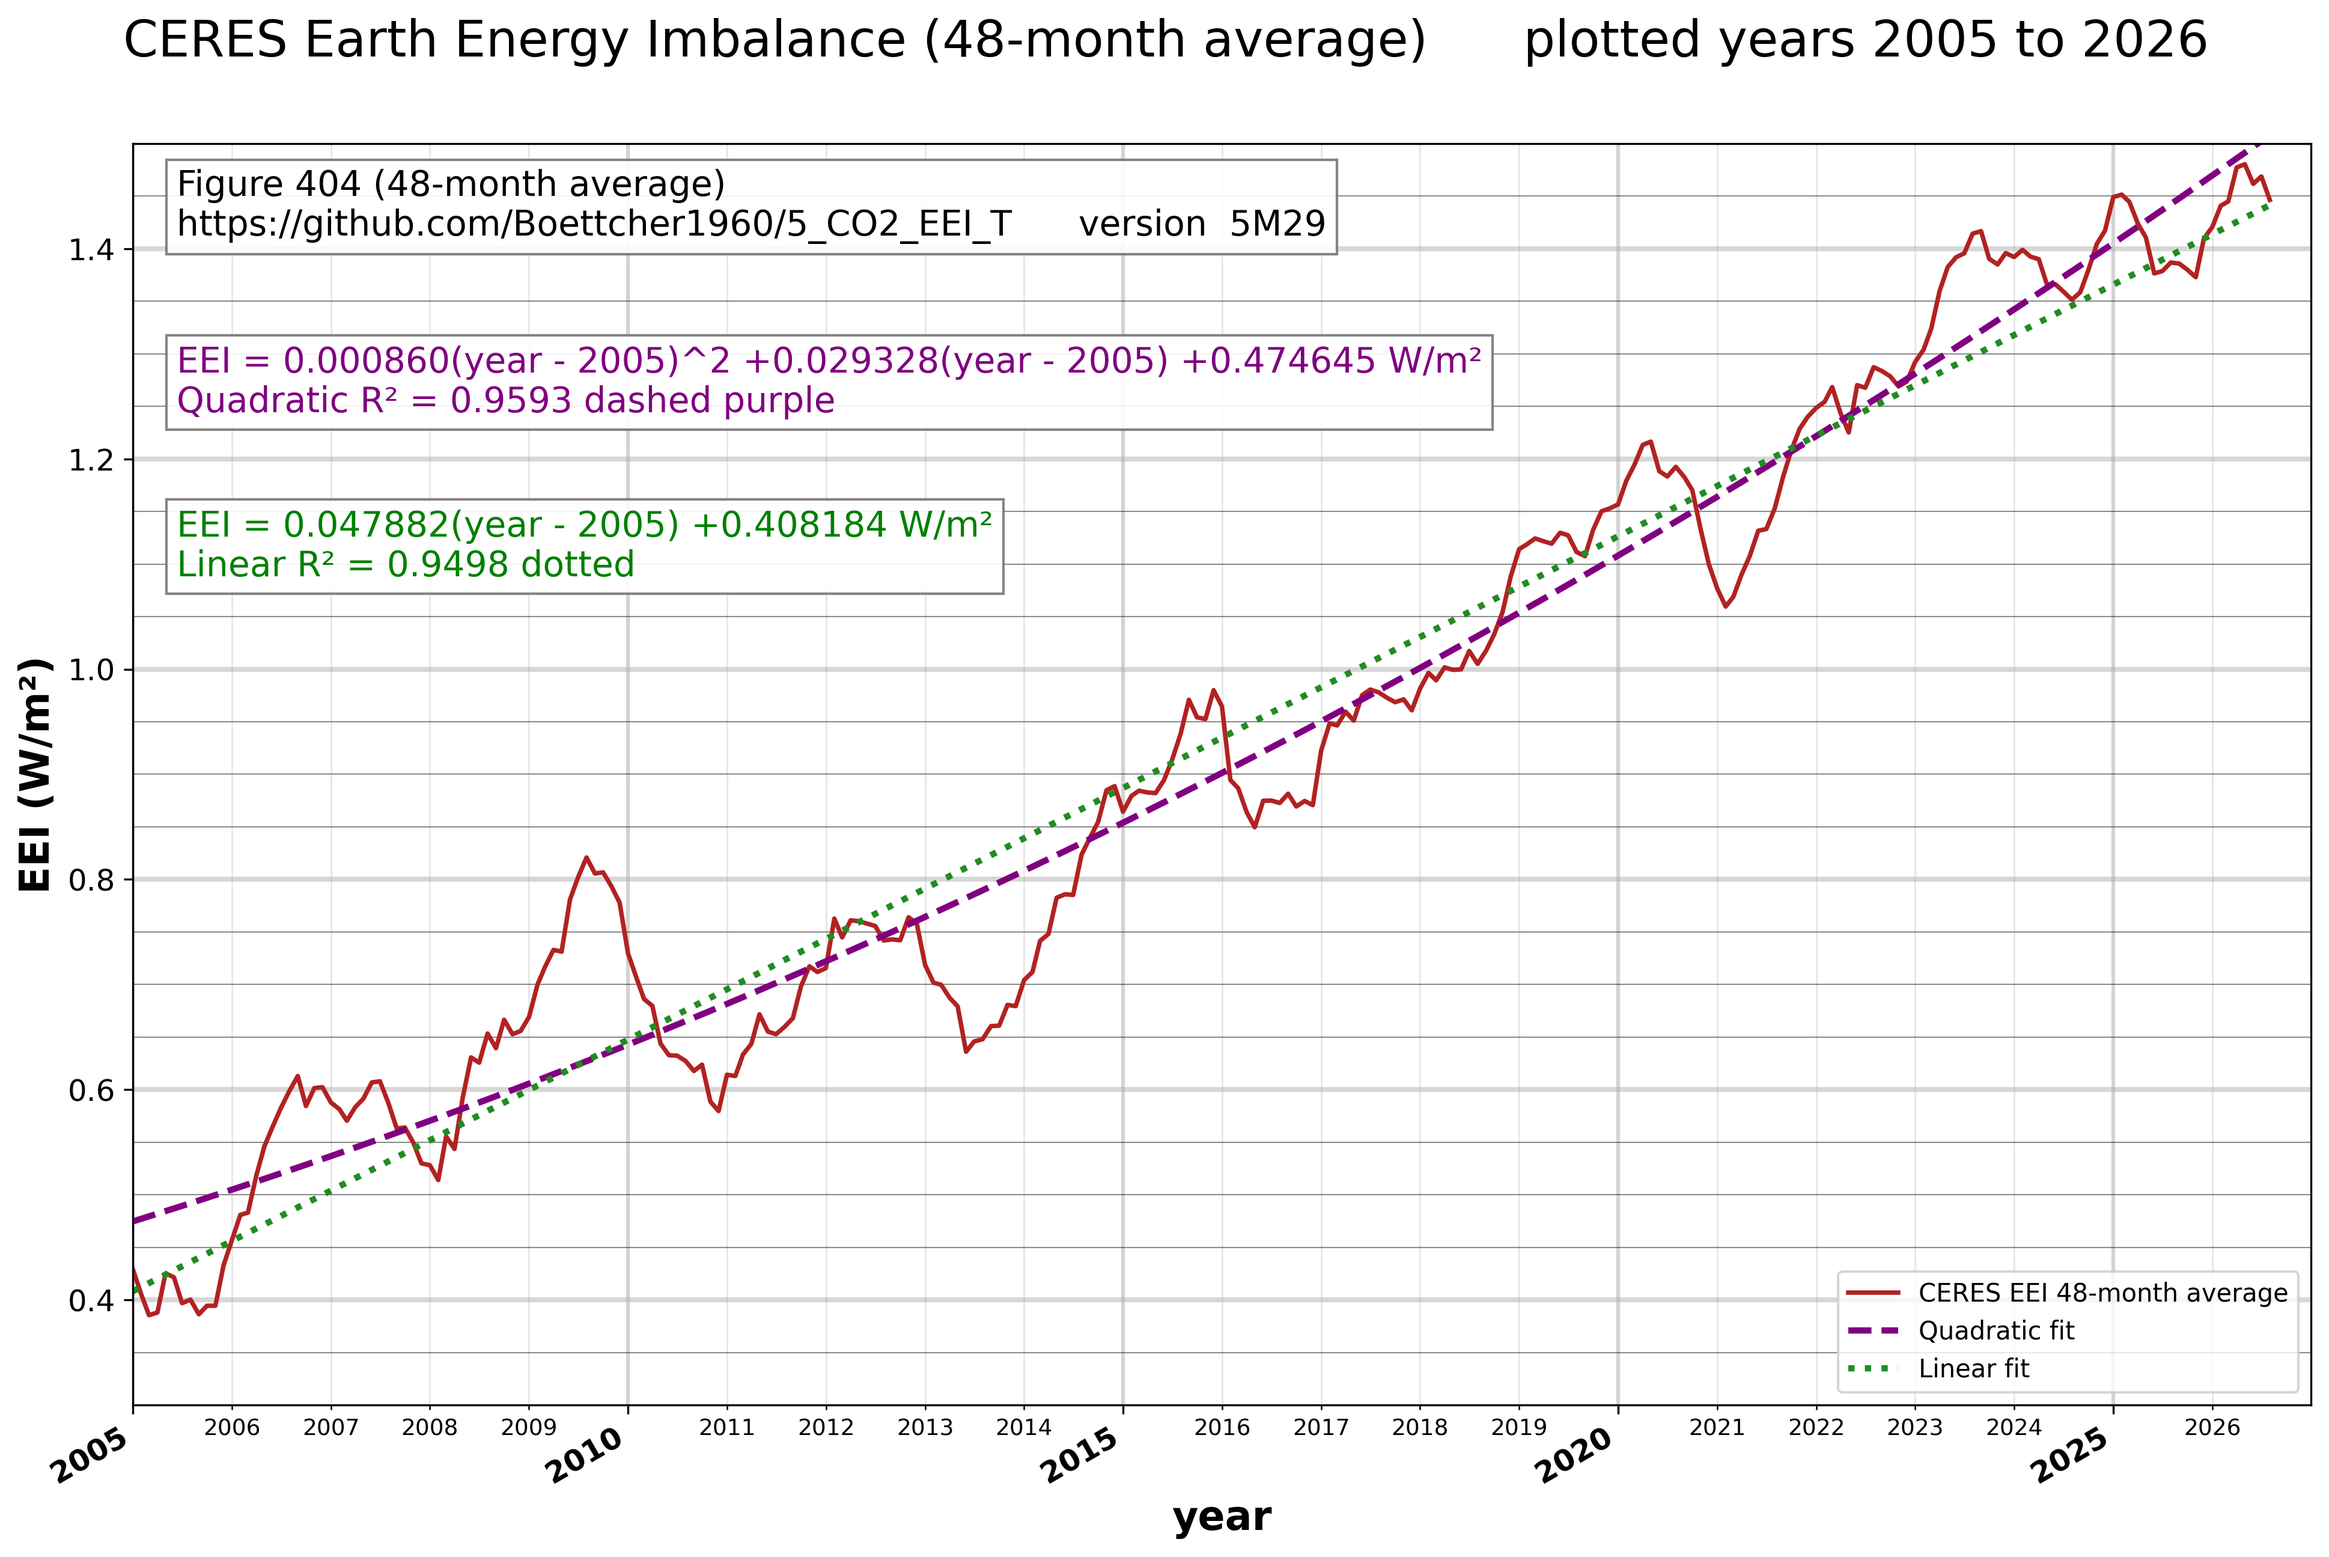
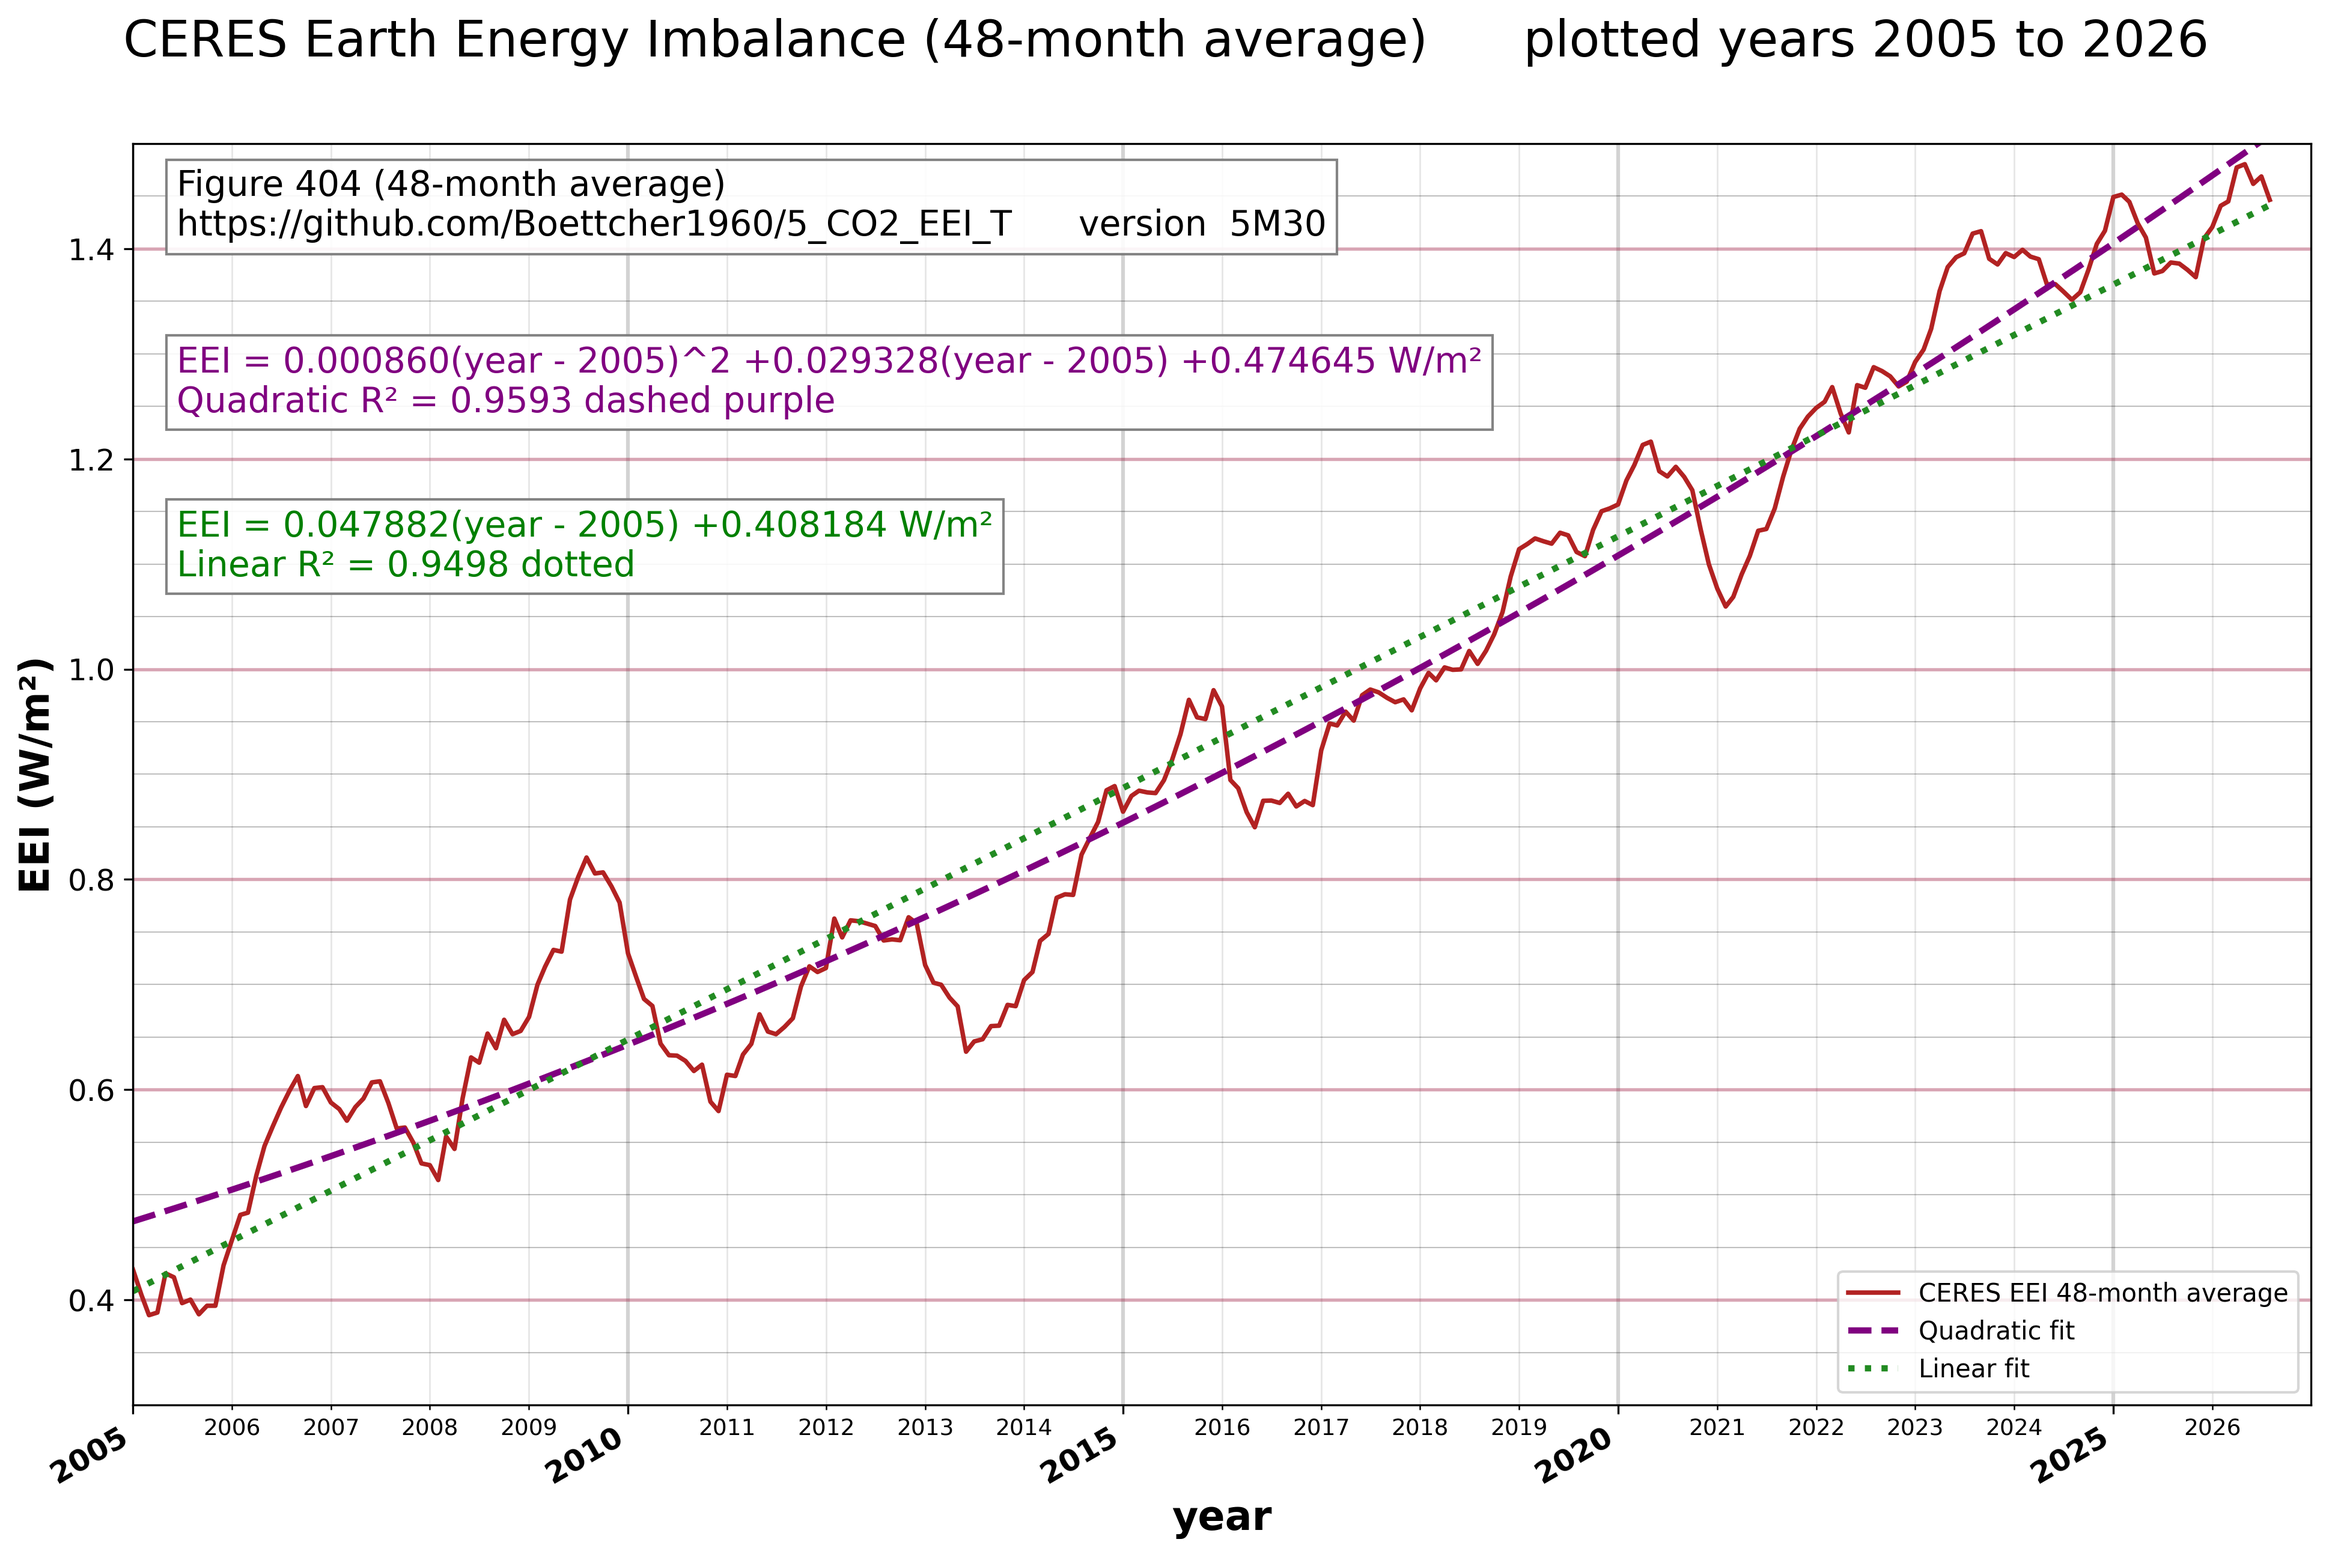
5M30

diff --git a/ceres.py b/ceres.py
@@ -723,8 +723,10 @@ def fig_404_eei_quadratic():
     for label in ax.xaxis.get_minorticklabels():
         label.set_fontweight("normal")
         label.set_fontsize(9)
-    ax.grid(True, axis="y", which="major", alpha=0.5, linewidth=2.0)
-    ax.grid(True, axis="y", which="minor", color="black", alpha=0.45, linewidth=0.5)
+    mcolor="#9F2044"
+    ax.grid(True, axis="y", which="major", color=mcolor, alpha=0.4, linewidth=1.3)
+    ax.grid(True, axis="y", which="minor", color="black", alpha=0.25, linewidth=0.5)
+
     ax.grid(True, axis="x", which="major", alpha=0.55, linewidth=1.5)
     ax.grid(True, axis="x", which="minor", alpha=0.3, linewidth=0.7)
     ax.tick_params(axis="x", which="minor", labelbottom=True)

diff --git a/main.py b/main.py
@@ -1,5 +1,5 @@
 # main.py
-v = "5M29" # make a separate new figure404 for play_61_EEI = 12 this is file work/61c_out_EEI.csv column EEI 
+v = "5M30" # make a separate new figure404 for play_61_EEI = 12 this is file work/61c_out_EEI.csv column EEI 
 #            print the quadratic equation for EEI inside figure404
 # https://github.com/Boettcher1960/5_CO2_EEI_T
 # ocean stratification https://bsky.app/profile/thomas-boettcher.bsky.social/post/3mj7zx7fzsc26
